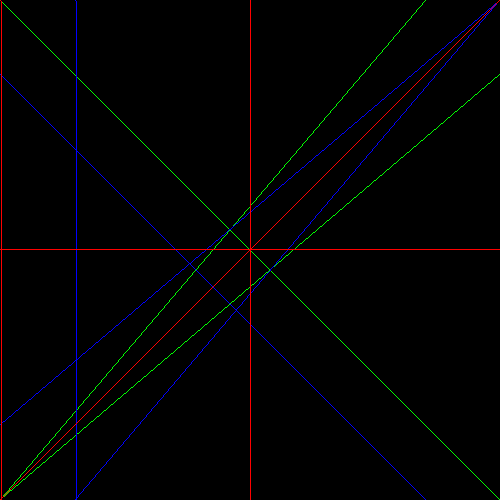
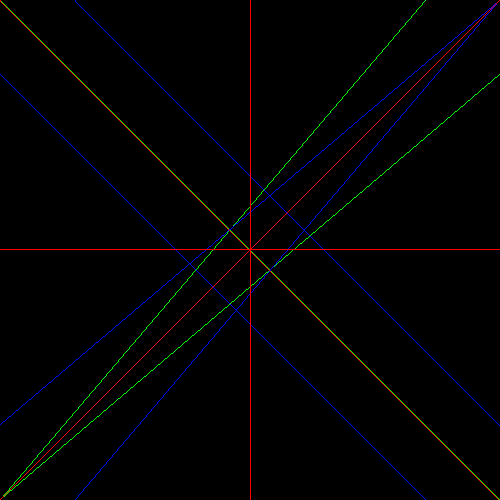
educated test

diff --git a/base_c/draw.c b/base_c/draw.c
@@ -93,7 +93,7 @@ void draw_line(int x0, int y0, int x1, int y1, screen s, color c) {
 
     while ( y >= y1 ){
       plot( s,c,x,y );
-      if ( d > 0){
+      if ( d < 0){
 	x += 1;
 	d += 2*A;
       }
